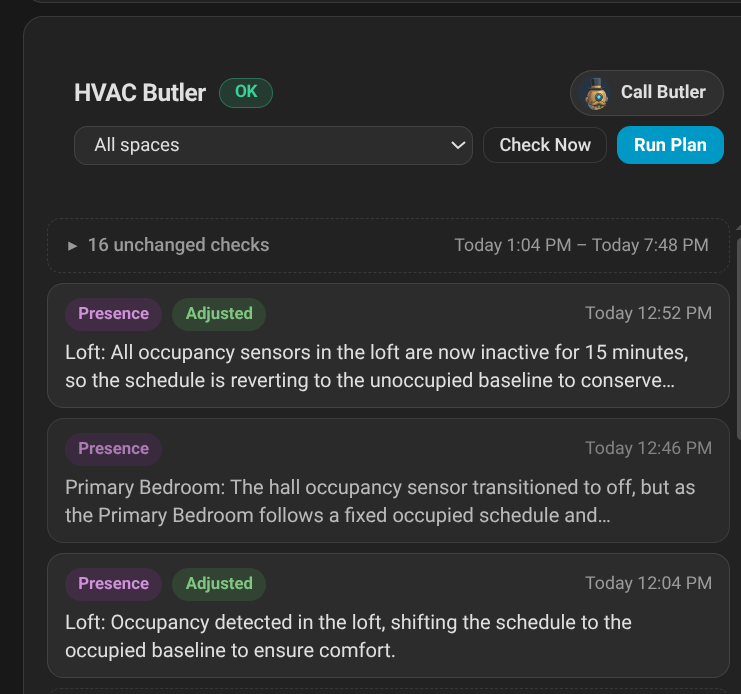
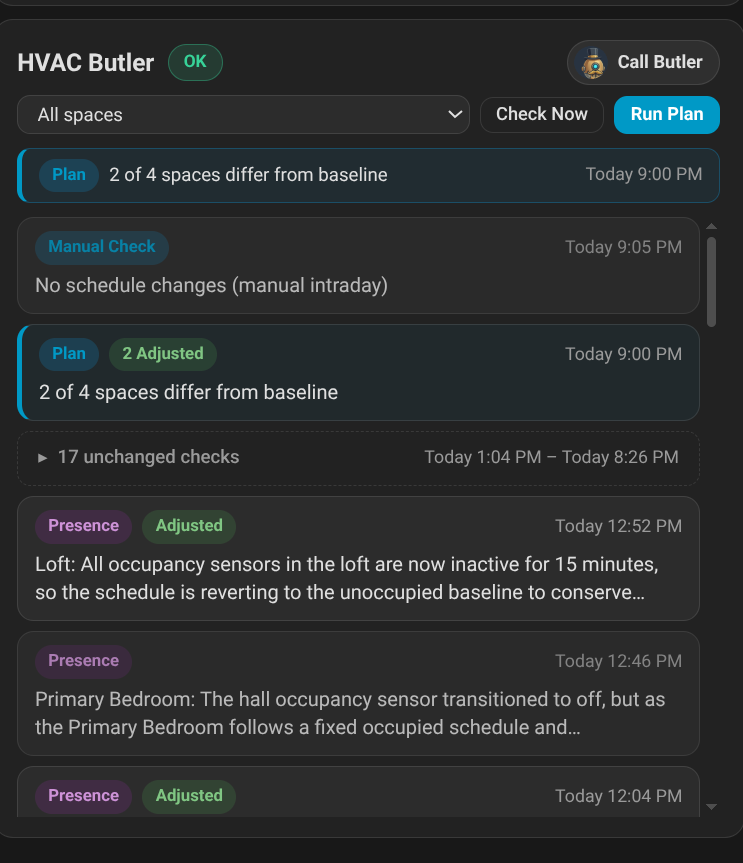
Doc update, minor tweaks (#5)

diff --git a/custom_components/hvac_butler/frontend/hvac-butler-cards.js b/custom_components/hvac_butler/frontend/hvac-butler-cards.js
@@ -893,7 +893,7 @@ let ButlerTimelineView = class extends i {
     `;
   }
   render() {
-    var _a2;
+    var _a2, _b;
     if (!this.selectedSpaceId) {
       return b`<div class="empty-state">No spaces configured in HVAC Butler.</div>`;
     }
@@ -912,13 +912,15 @@ let ButlerTimelineView = class extends i {
     const items = groupTimelineItems(spaceEntries, this.selectedSpaceId);
     const fallbackPlan = this.latestPlan && (isAll || this.latestPlan.spaces && this.selectedSpaceId in this.latestPlan.spaces) ? this.latestPlan : null;
     const latestPlan = spaceEntries.find((e2) => e2.kind === "plan") ?? fallbackPlan;
+    const isPlanAlreadyTop = Boolean(latestPlan) && ((_a2 = items[0]) == null ? void 0 : _a2.type) === "entry" && items[0].entry.id === (latestPlan == null ? void 0 : latestPlan.id);
+    const showPinnedPlan = Boolean(latestPlan) && !isPlanAlreadyTop;
     let pinnedPlanText = "";
-    if (latestPlan) {
-      const rec = isAll ? void 0 : (_a2 = latestPlan.spaces) == null ? void 0 : _a2[this.selectedSpaceId];
+    if (showPinnedPlan && latestPlan) {
+      const rec = isAll ? void 0 : (_b = latestPlan.spaces) == null ? void 0 : _b[this.selectedSpaceId];
       pinnedPlanText = !isAll ? (rec == null ? void 0 : rec.summary) || latestPlan.headline || "Plan updated." : latestPlan.headline || "Plan updated.";
     }
     return b`
-      ${latestPlan ? b`
+      ${showPinnedPlan && latestPlan ? b`
             <div
               class="pinned-plan"
               role="button"
@@ -1730,7 +1732,7 @@ __decorateClass$2([
 ButlerDetailModal = __decorateClass$2([
   t("butler-detail-modal")
 ], ButlerDetailModal);
[2 lines of base64/hex data omitted]
 var __defProp$1 = Object.defineProperty;
 var __getOwnPropDesc$1 = Object.getOwnPropertyDescriptor;
 var __decorateClass$1 = (decorators, target, key, kind) => {

diff --git a/frontend/src/assets/butler-head.ts b/frontend/src/assets/butler-head.ts
@@ -1,2 +1,2 @@
-// Auto-extracted circular avatar from custom_components/hvac_butler/brand/icon.png
[1 lines of base64/hex data omitted]
+// Auto-extracted circular avatar from custom_components/hvac_butler/brand/icon@2x.png
[1 lines of base64/hex data omitted]

diff --git a/frontend/src/components/butler-timeline-view.ts b/frontend/src/components/butler-timeline-view.ts
@@ -372,9 +372,14 @@ export class ButlerTimelineView extends LitElement {
         : null;
     const latestPlan =
       spaceEntries.find((e) => e.kind === 'plan') ?? fallbackPlan;
+    const isPlanAlreadyTop =
+      Boolean(latestPlan) &&
+      items[0]?.type === 'entry' &&
+      items[0].entry.id === latestPlan?.id;
+    const showPinnedPlan = Boolean(latestPlan) && !isPlanAlreadyTop;
 
     let pinnedPlanText = '';
-    if (latestPlan) {
+    if (showPinnedPlan && latestPlan) {
       const rec = isAll ? undefined : latestPlan.spaces?.[this.selectedSpaceId];
       pinnedPlanText = !isAll
         ? rec?.summary || latestPlan.headline || 'Plan updated.'
@@ -382,7 +387,7 @@ export class ButlerTimelineView extends LitElement {
     }
 
     return html`
-      ${latestPlan
+      ${showPinnedPlan && latestPlan
         ? html`
             <div
               class="pinned-plan"

diff --git a/README.md b/README.md
@@ -83,6 +83,6 @@ HVAC Butler works standalone with any Home Assistant climate entity, and pairs s
 
 - **Deterministic Non-AI Heuristic Fallback:** Graceful local degradation during extended cloud LLM outages or rate limits.
 - **Proactive External Calendar Clarification:** Scan household `calendar.*` entities and ask concise clarifying questions when an event is ambiguous (*"Maui trip — housesitter? Dogs home or boarded?"* or *"Wednesday Sync — Zoom from Home Office, or away?"*), saving answers as reusable rules.
-- **Transparent Habit & Proximity Learning:** Surface learned occupancy routines and override patterns as plain-English, inspectable notes alongside your schedule, and anticipate arrivals via proximity zones.
+- **Transparent Habit & Proximity Learning:** Show learned occupancy routines and override patterns as plain-English, editable notes alongside your schedule, and anticipate arrivals via proximity zones.
 - **Cooling-Season Comfort & Passive-Cooling Advisories:** Factor in interior humidity/dewpoint and suggest free overnight cooling (*"Tonight is a great night to air out the house"*).
 - **Empirical Thermal Awareness & Envelope Calibration:** Learn per-space coast-down and recovery behavior from Home Assistant history to scale setbacks with weather severity and propose `hvac-fusion` calibration refinements.
